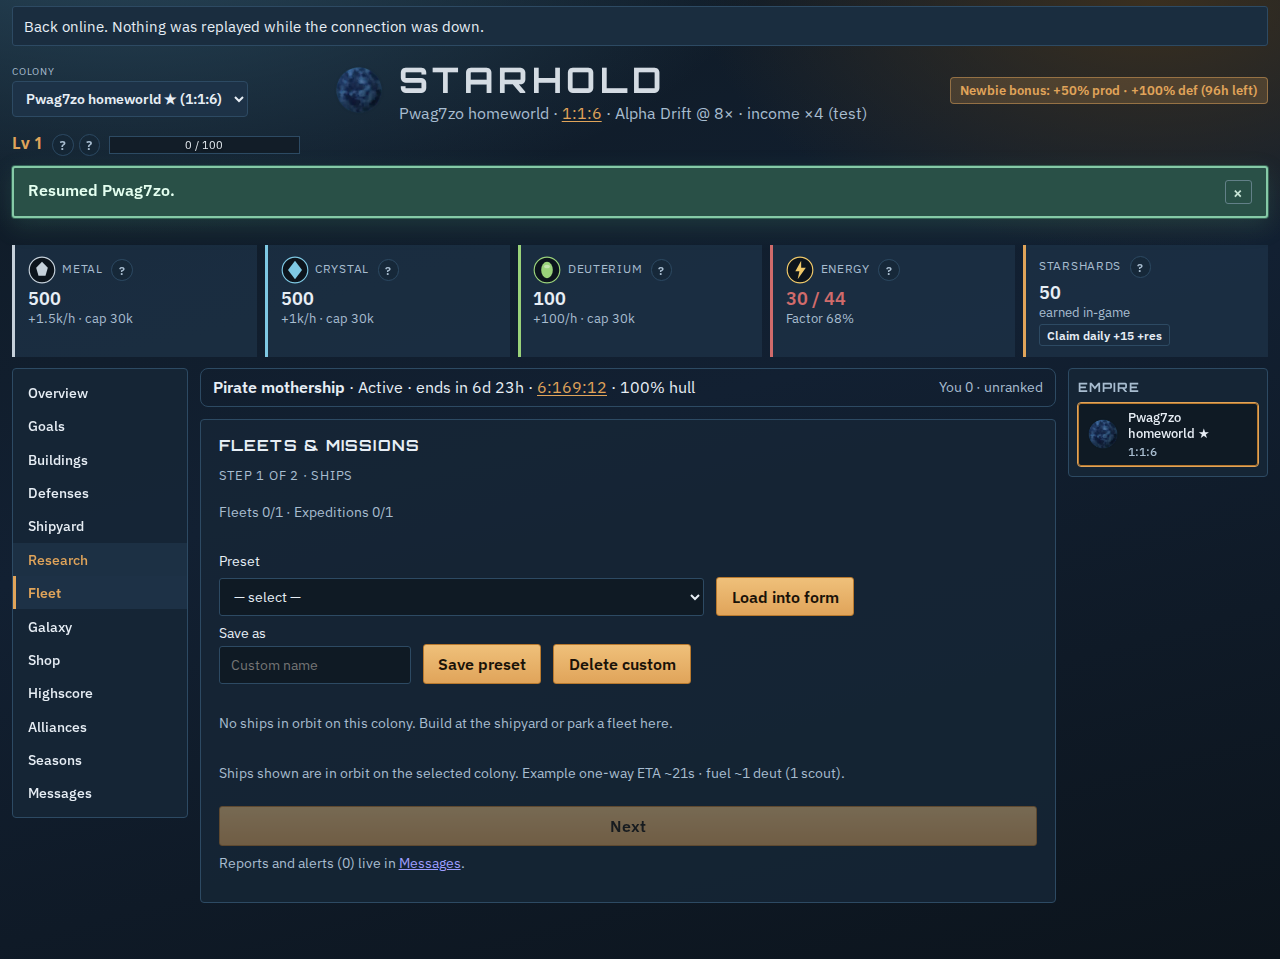
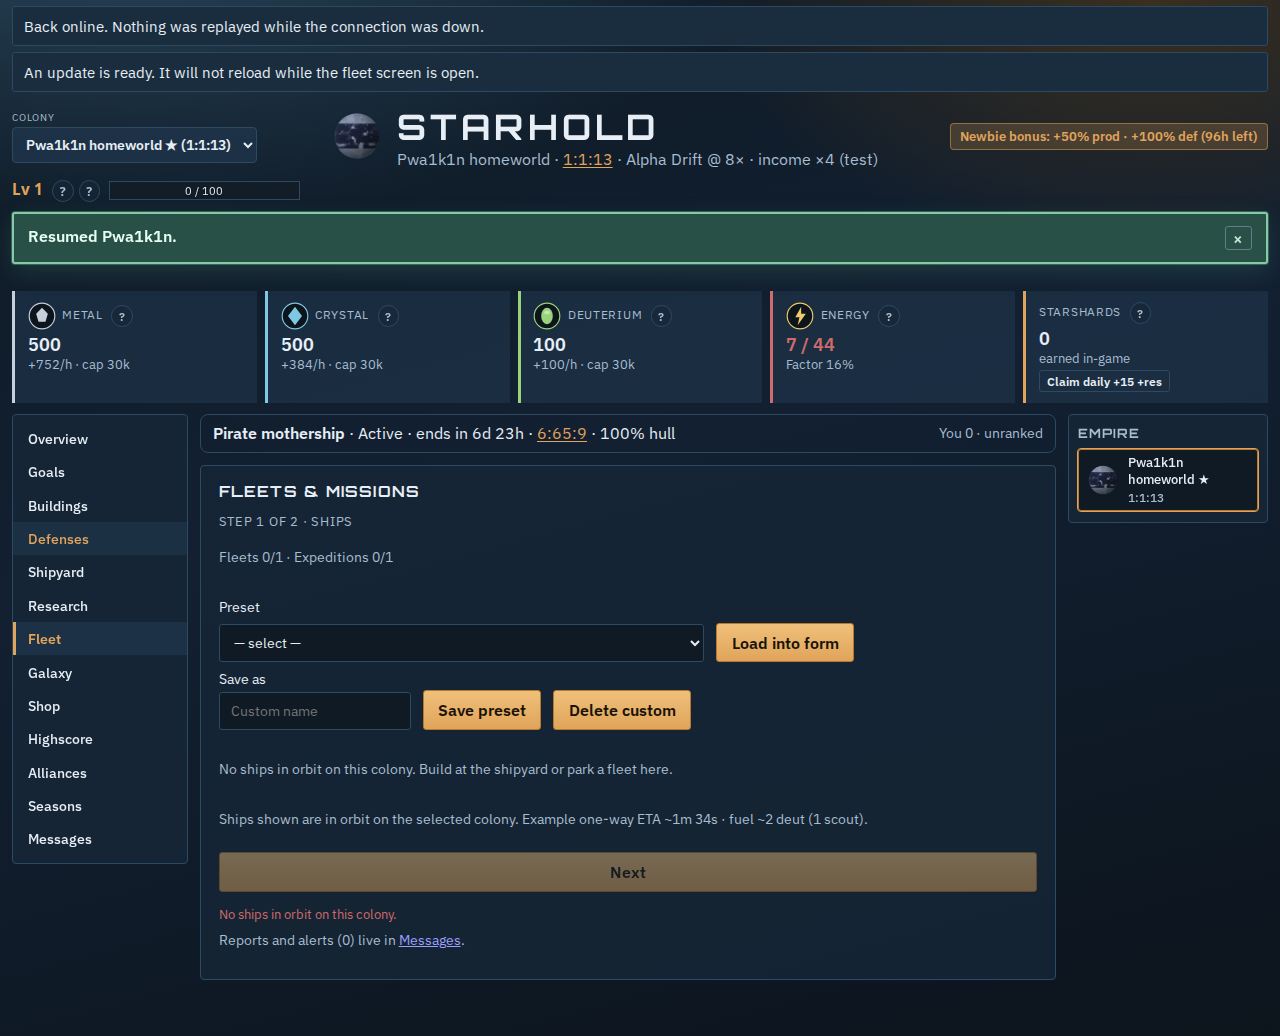
Prove the PWA shell offline and during a fleet-screen update.
The production smoke checks manifest identity, the service worker, the allowlisted offline shell, isolated cache keys, and that a new cache does not reload an open fleet screen or reset the commander. The phone install list stays unverified.

diff --git a/apps/web/src/pwa.ts b/apps/web/src/pwa.ts
@@ -5,6 +5,7 @@ import {
   isStandalone,
   mayApplyAppUpdate,
   renderPwaChrome,
+  serviceWorkerUpdateReady,
   shouldRegisterServiceWorker,
   type OfflinePhase,
   type PwaView,
@@ -83,13 +84,28 @@ function watchUpdates(win: Window, doc: Document, reg: ServiceWorkerRegistration
     updateReady = true;
     paint(doc, win);
   };
-  if (reg.waiting && win.navigator.serviceWorker.controller) mark();
-  reg.addEventListener("updatefound", () => {
-    const worker = reg.installing;
+  const controllerChanged = () => {
+    const controller = win.navigator.serviceWorker.controller;
+    const active = reg.active;
+    if (!controller || !active || controller === active) return;
+    if (serviceWorkerUpdateReady(active.state, true)) mark();
+  };
+  const watch = (worker: ServiceWorker | null) => {
     if (!worker) return;
-    worker.addEventListener("statechange", () => {
-      if (worker.state === "installed" && win.navigator.serviceWorker.controller) mark();
-    });
+    const consider = () => {
+      if (serviceWorkerUpdateReady(worker.state, Boolean(win.navigator.serviceWorker.controller))) mark();
+      controllerChanged();
+    };
+    consider();
+    worker.addEventListener("statechange", consider);
+  };
+  watch(reg.waiting);
+  watch(reg.installing);
+  controllerChanged();
+  reg.addEventListener("updatefound", () => {
+    watch(reg.installing);
+    watch(reg.waiting);
+    controllerChanged();
   });
 }
 

diff --git a/apps/web/src/pwa-policy.test.ts b/apps/web/src/pwa-policy.test.ts
@@ -8,6 +8,7 @@ import {
   isStandalone,
   mayApplyAppUpdate,
   renderPwaChrome,
+  serviceWorkerUpdateReady,
   shouldRegisterServiceWorker,
 } from "./pwa-policy.js";
 import {
@@ -96,6 +97,12 @@ describe("offline and updates", () => {
     assert.match(ready, /Nothing was replayed/);
     assert.match(ready, /data-testid="pwa-update-apply"/);
     assert.equal(mayApplyAppUpdate(false), true);
+    assert.equal(serviceWorkerUpdateReady("installed", true), true);
+    assert.equal(serviceWorkerUpdateReady("activating", true), true);
+    assert.equal(serviceWorkerUpdateReady("activated", true), true);
+    assert.equal(serviceWorkerUpdateReady("activated", false), false);
+    assert.equal(serviceWorkerUpdateReady("installing", true), false);
+    assert.equal(serviceWorkerUpdateReady("redundant", true), false);
   });
 
   it("registers a worker only for the production hashed bundle", () => {

diff --git a/apps/web/src/pwa-policy.ts b/apps/web/src/pwa-policy.ts
@@ -41,6 +41,16 @@ export function mayApplyAppUpdate(fleetFormOpen: boolean): boolean {
   return !fleetFormOpen;
 }
 
+/**
+ * A newer worker is ready for the next visit. `skipWaiting` can move the
+ * worker to `activating` or `activated` before a listener reads `installed`,
+ * so those states count too. The page is not reloaded here.
+ */
+export function serviceWorkerUpdateReady(phase: string, hasController: boolean): boolean {
+  if (!hasController) return false;
+  return phase === "installed" || phase === "activating" || phase === "activated";
+}
+
 /** Production builds load a hashed chunk. Vite dev loads `/src/main.ts`. */
 export function shouldRegisterServiceWorker(moduleSrc: string | null | undefined): boolean {
   return /^\/assets\/[^/]+\.js$/.test(moduleSrc ?? "");

diff --git a/docs/FEATURE_MAP.md b/docs/FEATURE_MAP.md
@@ -172,7 +172,11 @@ Starhold can be added to an iPhone or Android home screen. It is not a store app
 
 The install note explains Share → Add to Home Screen on iPhone. Android shows Install app only after the browser fires `beforeinstallprompt`. Other browsers get written steps and no Install button. Dismiss stores `starhold-pwa-install-dismissed` and does not ask again. Standalone display, including iOS `navigator.standalone`, hides the note.
 
-A shell service worker (`/sw.js`) caches only the public document, manifest, icons, and hashed `/assets/*.js|css` files, capped at 24 entries. The document is stored only under `/index.html` (the query string is stripped, so a player id in the URL is not a cache key). The manifest is stored only under `/manifest.webmanifest`. Those keys do not overwrite each other. An offline manifest miss returns the plain offline text and does not serve the cached HTML document. Responses that carry `Set-Cookie`, and every `/api` or auth request, are not stored. The worker does not reload the page. While the fleet screen is open the update control will not reload. Offline copy says the game is not playable and that orders are not queued. Coming back online does not replay them.
+A shell service worker (`apps/web/public/sw.js`, served as `/sw.js`) caches only the public document, manifest, icons, and hashed `/assets/*.js|css` files, capped at 24 entries. `classifyRequest` is the allowlist: `/` and `/index.html` and `/manifest.webmanifest` are network-first, `/icons/*.png` and hashed `/assets/*.js|css` are cache-first, and everything else, including `/api` and auth, is bypass. The document is stored only under `/index.html` (`documentCacheUrl` strips the query string, so a player id in the URL is not a cache key). The manifest is stored only under `/manifest.webmanifest`. Those keys do not overwrite each other. An offline manifest miss returns the plain offline text and does not serve the cached HTML document. Responses that carry `Set-Cookie`, and every `/api` or auth request, are not stored. The worker does not reload the page. `apps/web/src/pwa.ts` registers `/sw.js` on the production hashed bundle and paints the update note from `apps/web/src/pwa-policy.ts`. `serviceWorkerUpdateReady` treats installed, activating, and activated as an update when this page already has a controller. `skipWaiting` lets the next shell take the active slot without calling `clients.claim` and without reloading the open page. The page marks that update when the active worker is no longer the controller. While the fleet screen is open the update control will not reload. Offline copy says the game is not playable and that orders are not queued. Coming back online does not replay them.
+
+`scripts/pwa-smoke.mjs` checks a local production build. It requires manifest identity (`id` `/`, standalone, `start_url` `/`, `scope` `/`, theme `#0f1a24`, 192 and 512 icons), service worker registration, an offline navigation that loads the cached shell and a hashed script, a manifest miss that stays plain text, isolated document and manifest cache keys, and a `starhold-shell-v2` update that does not reload while the fleet screen is open. The signed-in commander id and name stay the same. Screenshots land in `docs/pwa/iphone.png`, `docs/pwa/android.png`, `docs/pwa/desktop.png`, `docs/pwa/offline-iphone.png`, `docs/pwa/offline-android.png`, and `docs/pwa/offline-desktop.png`. This script does not pass a physical install.
+
+`docs/PWA_DEVICE_CHECKLIST.md` is the copy-ready iPhone Safari and Android Chrome install list. Physical installs stay UNVERIFIED until Micah or BrowserStack Live records standalone launch, the offline note text, and the home screen icon. Emulation and these screenshots do not count. The installable-app entries live in `docs/FEATURE_MAP.md`.
 
 No save fields were added. `packages/game/src/fixtures/in-flight-fleet-save.json` is a main-branch universe with one deploy still in flight; `migrateOrResetUniverse` keeps that fleet.
 

diff --git a/docs/PWA_DEVICE_CHECKLIST.md b/docs/PWA_DEVICE_CHECKLIST.md
@@ -1,0 +1,61 @@
+# Real-phone install checklist
+
+Physical iPhone and Android installation is **UNVERIFIED**.
+
+Playwright, a desktop browser, a phone-sized viewport, and the screenshots from `scripts/pwa-smoke.mjs` do not complete this list. Do not mark a physical install passed from those. This stays UNVERIFIED until Micah, or a BrowserStack Live session Micah starts, does the steps below on a real phone and records the three proofs.
+
+Starhold is not a store app. It needs a connection to play. The live site is https://starhold.stumpysgarage.workers.dev
+
+Use an existing commander when you are checking that the save survived. Do not create a second account for that check.
+
+## What to record
+
+Record all three. A note with the exact words is enough; a photo or screen recording is better.
+
+1. **Standalone launch.** The home screen icon opens Starhold without the Safari or Chrome address bar.
+2. **Offline note text.** With the radio or Wi-Fi off, the page shows: `You're offline. Starhold is not playable offline, and orders are not queued on this device.`
+3. **Icon present.** The home screen shows the Starhold icon, not a blank or generic shortcut.
+
+Also write the date, phone model, OS version, and browser. After you turn the connection back on, the same commander name is still signed in, and the page says `Back online. Nothing was replayed while the connection was down.` Orders from the offline period are not sent.
+
+## iPhone Safari
+
+Chrome on iPhone does not install this app. Use Safari.
+
+1. Open https://starhold.stumpysgarage.workers.dev in Safari.
+2. Sign in as the commander you want to keep.
+3. Tap the Share button.
+4. Tap **Add to Home Screen**.
+5. Confirm the name is Starhold and the icon preview is visible. Tap Add.
+6. Leave Safari. Tap the new Starhold icon on the home screen.
+7. Record standalone launch and that the icon is on the home screen.
+8. Turn on airplane mode. Record the offline note text, exactly.
+9. Turn airplane mode off. Record the back-online line and that the commander name did not change.
+
+The in-app note, when Safari is not already installed to the home screen, says: `iPhone: open the Share menu, then tap Add to Home Screen.` There is no Install button on iPhone.
+
+## Android Chrome
+
+Use Chrome. The in-app **Install app** button appears only after Chrome fires its install prompt. If that button is not there, use the browser menu.
+
+1. Open https://starhold.stumpysgarage.workers.dev in Chrome.
+2. Sign in as the commander you want to keep.
+3. Install with either path:
+   - Tap **Install app** in the page note when Chrome shows it, or
+   - Open the Chrome menu and tap **Install app** or **Add to Home screen**.
+4. Confirm the icon preview, then confirm the install.
+5. Open Starhold from the home screen icon, not from the Chrome tab.
+6. Record standalone launch (no Chrome address bar) and that the icon is on the home screen.
+7. Turn on airplane mode. Record the offline note text, exactly.
+8. Turn airplane mode off. Record the back-online line and that the commander name did not change.
+
+## Result
+
+| Check | iPhone Safari | Android Chrome |
+| --- | --- | --- |
+| Standalone launch | UNVERIFIED | UNVERIFIED |
+| Offline note text | UNVERIFIED | UNVERIFIED |
+| Icon present | UNVERIFIED | UNVERIFIED |
+| Same commander after reconnect | UNVERIFIED | UNVERIFIED |
+
+Status: **UNVERIFIED**. No physical install has been recorded for this build.
